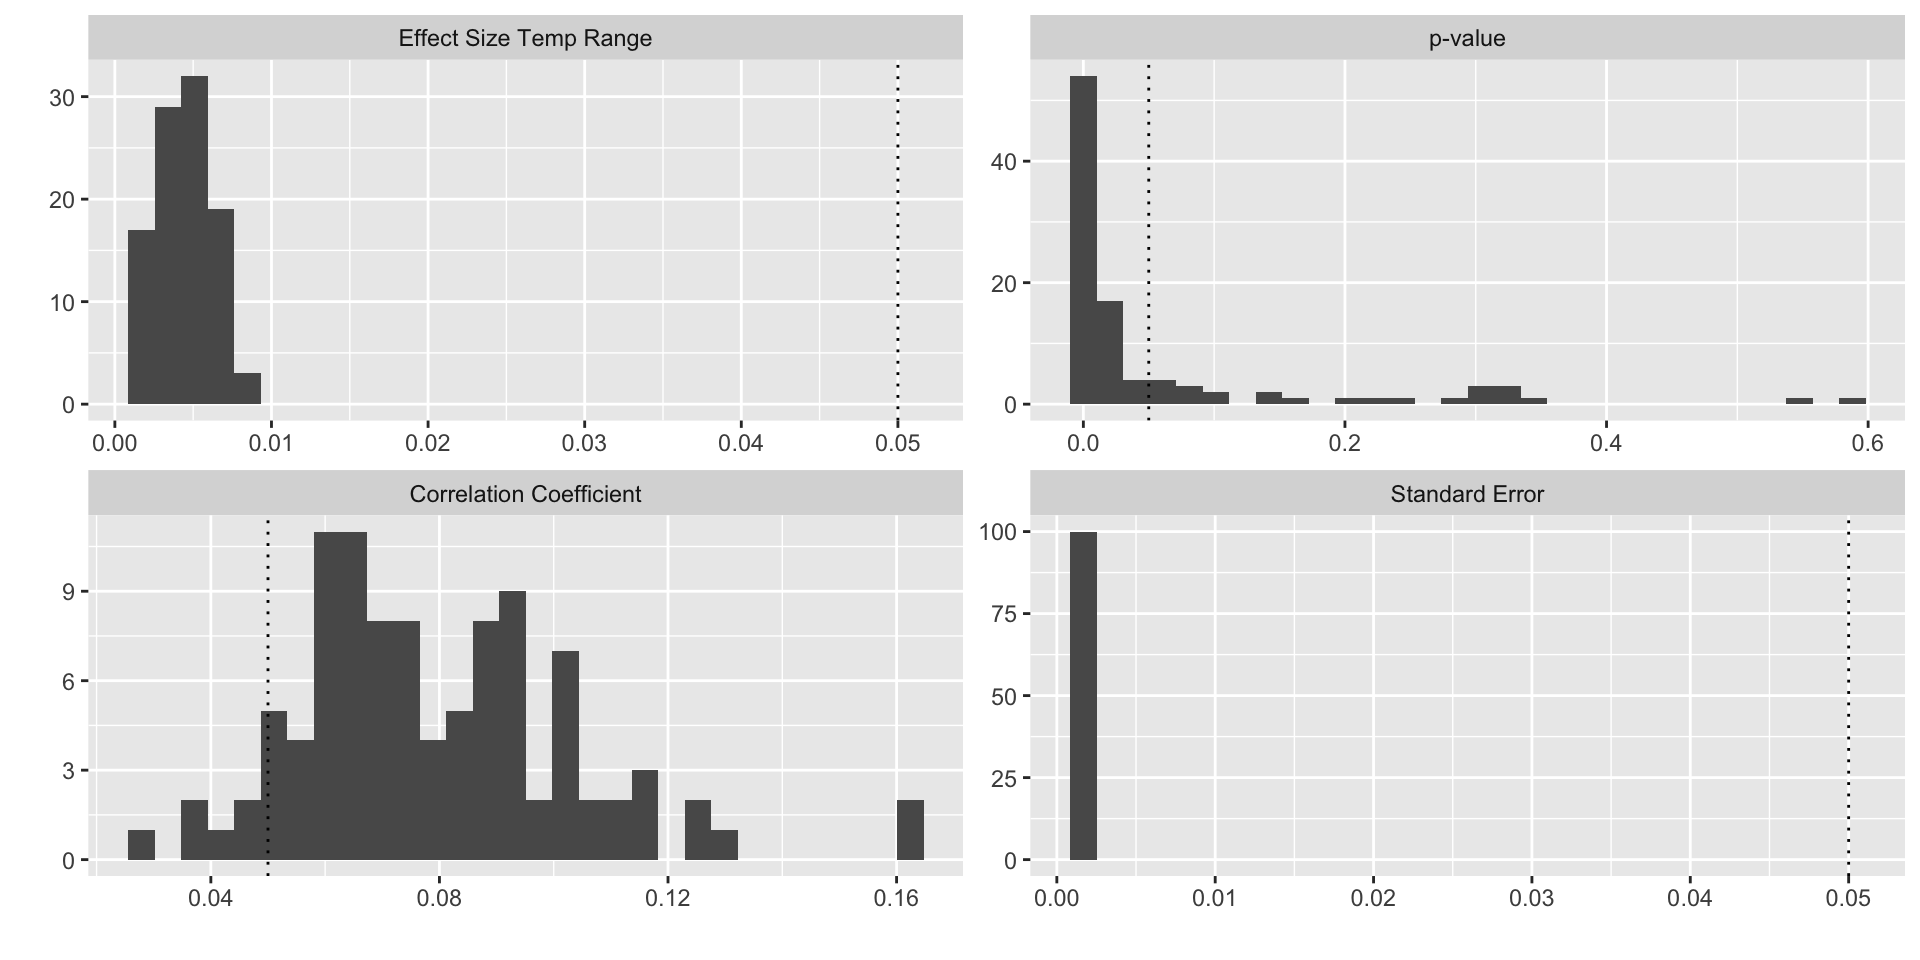
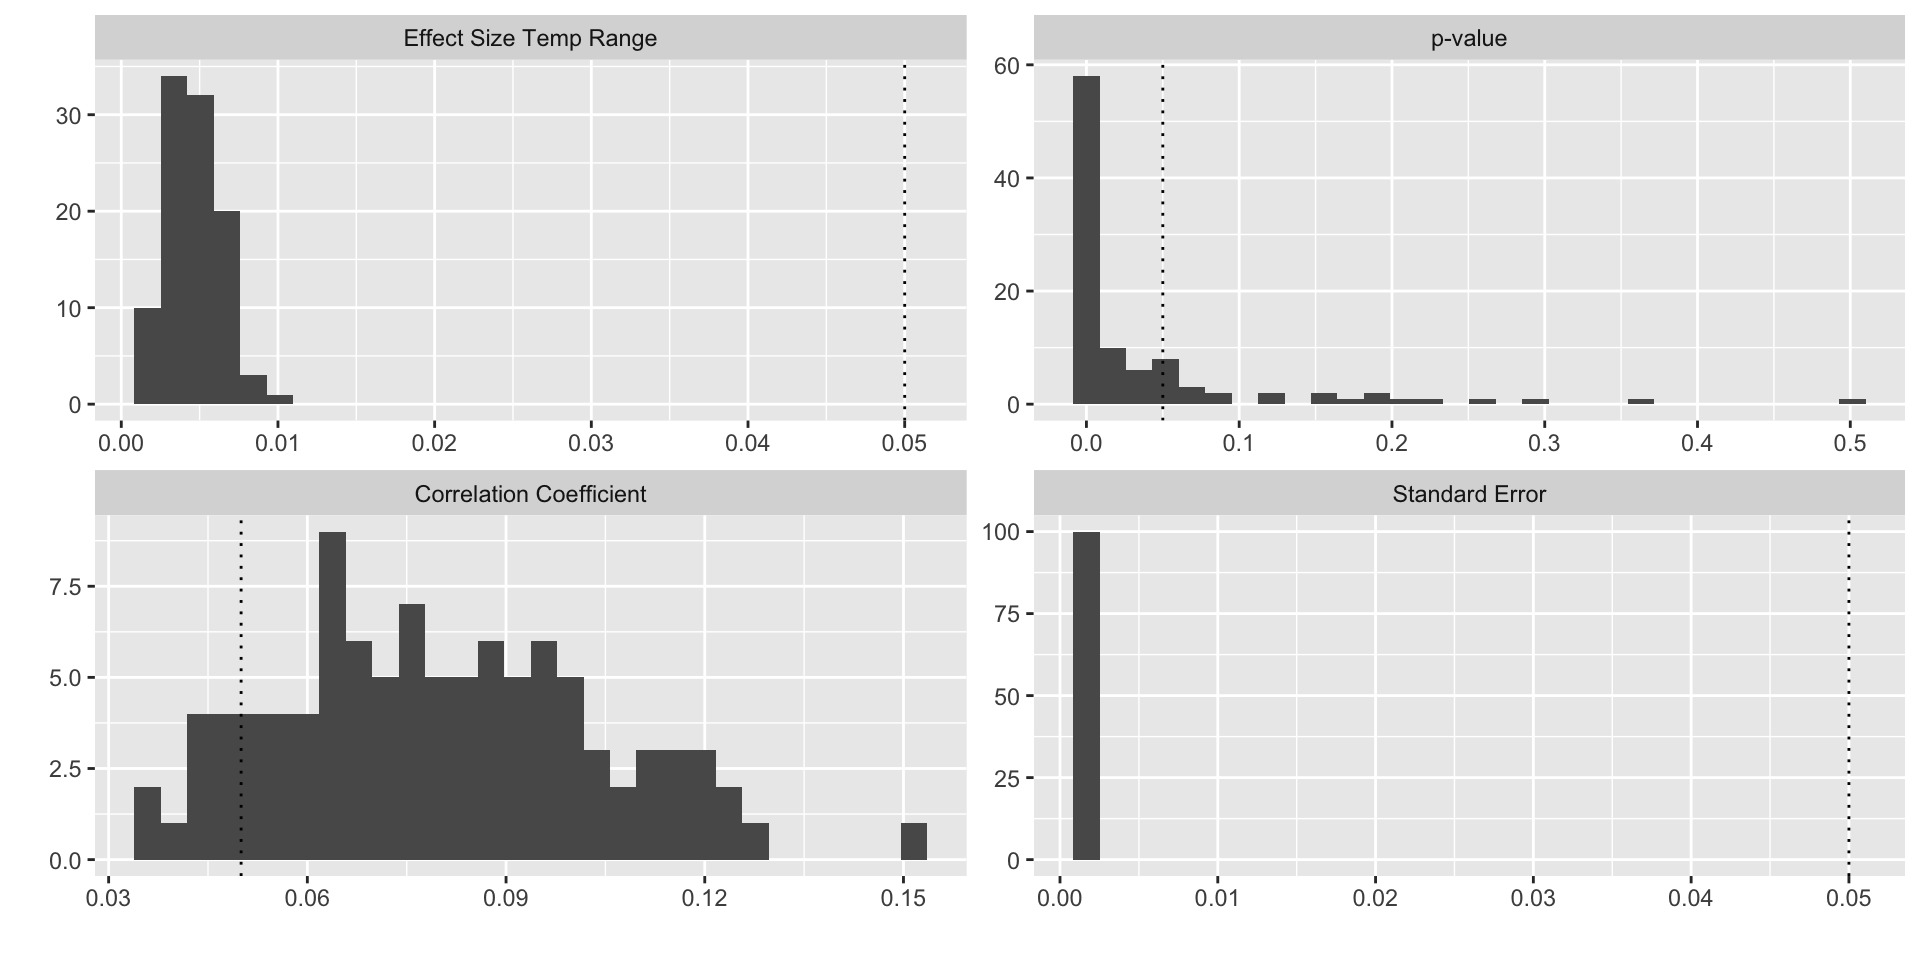
new subsampling and comm ecology pages

diff --git a/docs/subsampling.html b/docs/subsampling.html
@@ -301,7 +301,7 @@ $(document).ready(function () {
       <a href="SAR.html">Island Biogeography</a>
     </li>
     <li>
-      <a href="readings-module3.html">Community Ecology</a>
+      <a href="thiefant.html">Community Ecology</a>
     </li>
     <li>
       <a href="readings-module4.html">Non-ants</a>
@@ -344,8 +344,8 @@ $(document).ready(function () {
 
 <div id="subsampling" class="section level1">
 <h1>Subsampling</h1>
-<p>When analyzing data at large spatial scales, significant results of correlations between your response varible and predictor variable need to be better validated aside from usual metrics such as correlation coefficients. While cross-validation methods exist to validate the predictive power of a statistical analyses, such as a regression, sometimes the question that we need to ask is whether or not the pattern or correlation that is observed from the analysis is really there.</p>
-<p>Take for example a study where we run a model assessing the effects of temperature range on average body size for each assemblage. Our model shows a significant effect and a decent correlation coefficient, however there is a possibility that our results are a product of certain species influencing the data because they are more abundant or widespread. Now the question becomes whether our model is simply just capturing the variation that is contributed by only several abundant species. How do we test this?</p>
+<p>When analyzing data at large spatial scales, significant results of correlations between your response variable and predictor variable need to be better validated aside from usual metrics such as correlation coefficients. While cross-validation methods exist to validate the predictive power of a statistical analysis, such as a regression, sometimes the question that we need to ask is whether or not the pattern or correlation that is observed from the analysis is really there.</p>
+<p>Take for example a study where we run a model assessing the effects of temperature range on the average assemblage body size of beetles. Our model shows a significant effect and a decent correlation coefficient, however there is a possibility that our results are a product of certain species influencing the data because they are more abundant or widespread. Now the question becomes whether our model is simply just capturing the variation that is contributed by only several abundant species. How do we test this?</p>
 <p>Random sampling is an efficient approach to solving this issue. By randomly sampling a number of species (usually the minimum number of species found in a assemblage) from each assemblage (without replacement, meaning the same species isn’t sampled twice) we pull a less biased species roster as such a less biased value of body size.</p>
 <p>Here I’ll show how to code a simple program in R to run subsampling.</p>
 </div>
@@ -417,11 +417,13 @@ df_shp</code></pre>
 df_shp &lt;- df_shp %&gt;% filter(!SR&lt;5)
 
 ggplot() +
+  geom_sf(data = df_shp_master, alpha = 0.7) +
   geom_sf(data = df_shp, aes(fill = geo_avg, color = geo_avg)) +
   scale_fill_viridis_c()+
   scale_color_viridis_c()+
   labs(fill = &quot;Body Size&quot;, color = &quot;Body Size&quot;) +
-  theme(panel.background = element_rect(fill = &quot;black&quot;, colour = NA))</code></pre>
+  theme(panel.background = element_rect(fill = &quot;black&quot;, colour = NA),
+        panel.grid = element_blank())</code></pre>
 <p><img src="subsampling_files/figure-html/unnamed-chunk-3-1.png" width="960" style="display: block; margin: auto;" /></p>
 <p>Now let’s a build a model where we assess geo_avg (our variable for body size) as a function of ATR. We also need a model to account for spatial autocorrelation. We will use generalized least squares (GLS) regression as it permits analysis of data given the assumption that there is a high level or correlation between our residuals (a typical sign of spatial autocorrelation). Finally the model should also account for the species richness of each assemblage because more species may influence the average body size of an assemblage.To do this we need to grab coordinates for each assemblage, which we can do by getting the centroids of each hexbin:</p>
 <pre class="r"><code>#Get centroid coordinates
@@ -444,6 +446,115 @@ head(model_df)</code></pre>
 ## 5   13 1.096853 22 46.19601 -149.96528 67.06155
 ## 6   22 1.128458 19 38.76278 -141.02016 61.56315</code></pre>
 <p>Now we have our dataset for our GLS model. Now we need to modify the gls() function to accept a spatial autocorrelation structure that accounts for the curvature of the earth. We can do this using modified code from stackoverflow:</p>
+<pre class="r"><code>#setup haversine model
+#### corHaversine - spatial correlation with haversine distance
+
+# Calculates the geodesic distance between two points specified by radian latitude/longitude using Haversine formula.
+# output in km
+haversine &lt;- function(x0, x1, y0, y1) {
+  a &lt;- sin( (y1 - y0)/2 )^2 + cos(y0) * cos(y1) * sin( (x1 - x0)/2 )^2
+  v &lt;- 2 * asin( min(1, sqrt(a) ) )
+  6371 * v
+}
+
+# function to compute geodesic haversine distance given two-column matrix of longitude/latitude
+# input is assumed in form decimal degrees if radians = F
+# note fields::rdist.earth is more efficient
+haversineDist &lt;- function(xy, radians = F) {
+  if (ncol(xy) &gt; 2) stop(&quot;Input must have two columns (longitude and latitude)&quot;)
+  if (radians == F) xy &lt;- xy * pi/180
+  hMat &lt;- matrix(NA, ncol = nrow(xy), nrow = nrow(xy))
+  for (i in 1:nrow(xy) ) {
+    for (j in i:nrow(xy) ) {
+      hMat[j,i] &lt;- haversine(xy[i,1], xy[j,1], xy[i,2], xy[j,2]) 
+    }
+  }
+  as.dist(hMat)
+}
+
+## for most methods, machinery from corSpatial will work without modification
+Initialize.corHaversine &lt;- nlme:::Initialize.corSpatial
+recalc.corHaversine &lt;- nlme:::recalc.corSpatial
+Variogram.corHaversine &lt;- nlme:::Variogram.corSpatial
+corFactor.corHaversine &lt;- nlme:::corFactor.corSpatial
+corMatrix.corHaversine &lt;- nlme:::corMatrix.corSpatial
+coef.corHaversine &lt;- nlme:::coef.corSpatial
+&quot;coef&lt;-.corHaversine&quot; &lt;- nlme:::&quot;coef&lt;-.corSpatial&quot;
+
+## Constructor for the corHaversine class
+corHaversine &lt;- function(value = numeric(0), form = ~ 1, mimic = &quot;corSpher&quot;, nugget = FALSE, fixed = FALSE) {
+  spClass &lt;- &quot;corHaversine&quot;
+  attr(value, &quot;formula&quot;) &lt;- form
+  attr(value, &quot;nugget&quot;) &lt;- nugget
+  attr(value, &quot;fixed&quot;) &lt;- fixed
+  attr(value, &quot;function&quot;) &lt;- mimic
+  class(value) &lt;- c(spClass, &quot;corStruct&quot;)
+  value
+}   # end corHaversine class
+environment(corHaversine) &lt;- asNamespace(&quot;nlme&quot;)
+
+Dim.corHaversine &lt;- function(object, groups, ...) {
+  if (missing(groups)) return(attr(object, &quot;Dim&quot;))
+  val &lt;- Dim.corStruct(object, groups)
+  val[[&quot;start&quot;]] &lt;- c(0, cumsum(val[[&quot;len&quot;]] * (val[[&quot;len&quot;]] - 1)/2)[-val[[&quot;M&quot;]]])
+  ## will use third component of Dim list for spClass
+  names(val)[3] &lt;- &quot;spClass&quot;
+  val[[3]] &lt;- match(attr(object, &quot;function&quot;), c(&quot;corSpher&quot;, &quot;corExp&quot;, &quot;corGaus&quot;, &quot;corLin&quot;, &quot;corRatio&quot;), 0)
+  val
+}
+environment(Dim.corHaversine) &lt;- asNamespace(&quot;nlme&quot;)
+
+## getCovariate method for corHaversine class
+getCovariate.corHaversine &lt;- function(object, form = formula(object), data) {
+  if (is.null(covar &lt;- attr(object, &quot;covariate&quot;))) {          # if object lacks covariate attribute
+    if (missing(data)) {                                    # if object lacks data
+      stop(&quot;need data to calculate covariate&quot;)
+    }
+    covForm &lt;- getCovariateFormula(form)
+    if (length(all.vars(covForm)) &gt; 0) {                    # if covariate present
+      if (attr(terms(covForm), &quot;intercept&quot;) == 1) {       # if formula includes intercept
+        covForm &lt;- eval(parse(text = paste(&quot;~&quot;, deparse(covForm[[2]]),&quot;-1&quot;,sep=&quot;&quot;)))    # remove intercept
+      }
+      # can only take covariates with correct names
+      if (length(all.vars(covForm)) &gt; 2) stop(&quot;corHaversine can only take two covariates, &#39;lon&#39; and &#39;lat&#39;&quot;)
+      if ( !all(all.vars(covForm) %in% c(&quot;lon&quot;, &quot;lat&quot;)) ) stop(&quot;covariates must be named &#39;lon&#39; and &#39;lat&#39;&quot;)
+      covar &lt;- as.data.frame(unclass(model.matrix(covForm, model.frame(covForm, data, drop.unused.levels = TRUE) ) ) )
+      covar &lt;- covar[,order(colnames(covar), decreasing = T)] # order as lon ... lat
+    }
+    else {
+      covar &lt;- NULL
+    }
+    
+    if (!is.null(getGroupsFormula(form))) {                 # if groups in formula extract covar by groups
+      grps &lt;- getGroups(object, data = data)
+      if (is.null(covar)) {
+        covar &lt;- lapply(split(grps, grps), function(x) as.vector(dist(1:length(x) ) ) )     # filler?
+      } 
+      else {
+        giveDist &lt;- function(el) {
+          el &lt;- as.matrix(el)
+          if (nrow(el) &gt; 1) as.vector(haversineDist(el))                       
+          else numeric(0)
+        }
+        covar &lt;- lapply(split(covar, grps), giveDist )
+      }
+      covar &lt;- covar[sapply(covar, length) &gt; 0]  # no 1-obs groups
+    } 
+    else {                                  # if no groups in formula extract distance
+      if (is.null(covar)) {
+        covar &lt;- as.vector(dist(1:nrow(data) ) )
+      } 
+      else {
+        covar &lt;- as.vector(haversineDist(as.matrix(covar) ) )
+      }
+    }
+    if (any(unlist(covar) == 0)) {          # check that no distances are zero
+      stop(&quot;cannot have zero distances in \&quot;corHaversine\&quot;&quot;)
+    }
+  }
+  covar
+}   # end method getCovariate
+environment(getCovariate.corHaversine) &lt;- asNamespace(&quot;nlme&quot;)</code></pre>
 <p>Now that we have modified the code we can run a GLS model:</p>
 <pre class="r"><code>t_range1 &lt;- gls(log(geo_avg) ~ ATR, weights=varFixed(~1/SR),
                 correlation = corHaversine(form=~lon+lat, mimic=&quot;corSpher&quot;), data = model_df)
@@ -511,12 +622,13 @@ species_roster&lt;-final_cell_list %&gt;%
 <p>The subsampling routine is very simple:</p>
 <pre class="r"><code>#ok let&#39;s run through the sampling routine
 species_roster1&lt;-subset(species_roster, cell == 1) #I get the species roster for cell 1
-samples&lt;-sample(1:nrow(species_roster1), 5, replace = F) #I then sample 5 random rows (species) w/o replacement from cell 209
-species_roster1&lt;-species_roster1[samples,] # I then grab the randomly sampled rows from the species roster of cell 209
+samples&lt;-sample(1:nrow(species_roster1), 5, replace = F) #I then sample 5 random rows (species) w/o replacement from cell 1
+species_roster1&lt;-species_roster1[samples,] # I then grab the randomly sampled rows from the species roster of cell 1
 EnvStats::geoMean(species_roster1$mean) #then I calculate the average body size of those randomly sampled species</code></pre>
 <pre><code>## [1] 1.161719</code></pre>
 <p>We just need to repeat the above for every cell and do that 100 times with this code:</p>
-<pre class="r"><code>fillthis&lt;-data.frame(cell = rep(unique(species_roster$cell),100), geo_mean = rep(rep(NA, length(unique(species_roster$cell))),100))
+<pre class="r"><code>set.seed(121212)
+fillthis&lt;-data.frame(cell = rep(unique(species_roster$cell),100), geo_mean = rep(rep(NA, length(unique(species_roster$cell))),100))
 
 for(i in 1:nrow(fillthis)){
   species_roster1&lt;-subset(species_roster, cell == fillthis$cell[i])
@@ -526,12 +638,12 @@ for(i in 1:nrow(fillthis)){
 }
 head(fillthis)</code></pre>
 <pre><code>##   cell  geo_mean
-## 1    1 0.8999480
-## 2   10 0.7918654
-## 3  100 1.1222745
-## 4  101 0.5788188
-## 5  102 0.7878423
-## 6  109 1.1596468</code></pre>
+## 1    1 1.0093369
+## 2   10 1.1691026
+## 3  100 0.9052897
+## 4  101 0.8620742
+## 5  102 0.7608040
+## 6  109 0.6915264</code></pre>
 <p>‘Fillthis’ is now a dataframe with all our subsampling data. Essentially the total number of cells subsampled for 100 times each. Now we need to run the GLS for every iteration of subsampled hexbins:</p>
 <pre class="r"><code>#run gls model for every run
 fillthis$marker&lt;-rep(1:100, each = length(unique(species_roster$cell)))
@@ -562,12 +674,12 @@ for (i in 1:nrow(model_output)) {
 
 head(model_output)</code></pre>
 <pre><code>##   marker effect_sz_atr std_err_atr    p_val_atr         r2
-## 1      1   0.004176530 0.001602987 9.616125e-03 0.06681016
-## 2      2   0.002174543 0.001440772 1.322398e-01 0.06462952
-## 3      3   0.006410263 0.001561473 5.166047e-05 0.07619491
-## 4      4   0.001665516 0.001636960 3.097330e-01 0.05336088
-## 5      5   0.002695254 0.001679730 1.096021e-01 0.06487816
-## 6      6   0.004169120 0.001635849 1.129603e-02 0.07941607</code></pre>
+## 1      1   0.002186344 0.001519873 1.512964e-01 0.07277665
+## 2      2   0.004261957 0.001607867 8.443891e-03 0.07380673
+## 3      3   0.004303247 0.001616429 8.166967e-03 0.05565122
+## 4      4   0.003159783 0.001727070 6.827250e-02 0.04910885
+## 5      5   0.007205955 0.001585183 7.846360e-06 0.06993944
+## 6      6   0.007573730 0.001633876 5.248710e-06 0.11508336</code></pre>
 <p>Now let’s graph our model results:</p>
 <pre class="r"><code>model_output_graph&lt;-pivot_longer(model_output, 
                                  cols = c(&quot;effect_sz_atr&quot;, &quot;std_err_atr&quot;, &quot;p_val_atr&quot;,
@@ -590,12 +702,14 @@ ggplot(model_output_graph) +
 
 df_shape2&lt;-df_shp %&gt;% left_join(.,averages, by = &quot;cell&quot;)
 ggplot() +
+  geom_sf(data = df_shp_master, alpha = 0.7) +
   geom_sf(data = df_shape2, aes(fill = avg_bod_sz, color = avg_bod_sz)) +
   scale_fill_viridis_c()+
   scale_color_viridis_c()+
   labs(fill = &quot;Simulated\nBody\nSize&quot;, color = &quot;Simulated\nBody\nSize&quot;) +
-  theme(panel.background = element_rect(fill = &quot;black&quot;, colour = NA))</code></pre>
-<p><img src="subsampling_files/figure-html/unnamed-chunk-13-1.png" width="960" style="display: block; margin: auto;" /></p>
+  theme(panel.background = element_rect(fill = &quot;black&quot;, colour = NA),
+        panel.grid = element_blank())</code></pre>
+<p><img src="subsampling_files/figure-html/unnamed-chunk-13-1.png" width="960" style="display: block; margin: auto;" /> We see that the subsampling visually shows the same patterns of body size.</p>
 </div>
 
 

diff --git a/docs/thiefant.html b/docs/thiefant.html
@@ -9,10 +9,9 @@
 <meta http-equiv="X-UA-Compatible" content="IE=EDGE" />
 
 
-<meta name="author" content="Leo_Ohyama" />
 
 
-<title>Research</title>
+<title>thiefant.utf8</title>
 
 <script src="site_libs/jquery-1.11.3/jquery.min.js"></script>
 <meta name="viewport" content="width=device-width, initial-scale=1" />
@@ -339,31 +338,25 @@ $(document).ready(function () {
 
 
 
-<h1 class="title toc-ignore">Research</h1>
-<h4 class="author">Leo_Ohyama</h4>
-<h4 class="date">2/21/2021</h4>
 
 </div>
 
 
-<div id="r-markdown" class="section level2">
-<h2>R Markdown</h2>
-<p>This is an R Markdown document. Markdown is a simple formatting syntax for authoring HTML, PDF, and MS Word documents. For more details on using R Markdown see <a href="http://rmarkdown.rstudio.com" class="uri">http://rmarkdown.rstudio.com</a>.</p>
-<p>When you click the <strong>Knit</strong> button a document will be generated that includes both content as well as the output of any embedded R code chunks within the document. You can embed an R code chunk like this:</p>
-<pre class="r"><code>summary(cars)</code></pre>
-<pre><code>##      speed           dist       
-##  Min.   : 4.0   Min.   :  2.00  
-##  1st Qu.:12.0   1st Qu.: 26.00  
-##  Median :15.0   Median : 36.00  
-##  Mean   :15.4   Mean   : 42.98  
-##  3rd Qu.:19.0   3rd Qu.: 56.00  
-##  Max.   :25.0   Max.   :120.00</code></pre>
+<div class="figure" style="text-align: center">
+<img src="Images/P1080563(1).jpg" alt="Thief ants of the genus Solenopsis (Photo: Philipp Hönle)" width="75%" />
+<p class="caption">
+Thief ants of the genus Solenopsis (Photo: Philipp Hönle)
+</p>
 </div>
-<div id="including-plots" class="section level2">
-<h2>Including Plots</h2>
-<p>You can also embed plots, for example:</p>
-<p><img src="research_files/figure-html/pressure-1.png" width="672" /></p>
-<p>Note that the <code>echo = FALSE</code> parameter was added to the code chunk to prevent printing of the R code that generated the plot.</p>
+<div id="community-ecology" class="section level1">
+<h1>Community Ecology</h1>
+<p>While empirical studies done at large spatial scales are informative, I’m a firm believer that such studies are only as good as the local-scale studies that help support them. As such, the observations and experiments that are done at the local-scale are extremely important. To better understand ants at the local scale, I spent roughly 3 years conducting field experiments and surveys throughout my masters degree.</p>
+<p>The focus of that research was on the genus <em>Solenopsis</em>, and more specifically the thief ant group. Thief ants are tiny ants (~1-2mm long) that steal the brood or eggs of other ants for consumption. They are often subterranean, living almost the entirety of their lives belowground. Due to their mostly subterranean natural history, not much is known of their biology yet they are one the most abundant ants in the world. I assessed their diversity and distributions in high pine habitats of Florida and also ran experimental manipulations to reduce their abundance in the field in order to assess their potential impact as subterranean predators.</p>
+<p>Through my research I identified that <a href="https://myrmecologicalnews.org/cms/index.php?option=com_content&amp;view=category&amp;id=1518&amp;Itemid=421">strong soil environmental variables can heavily influence thief ant diversity</a> and also found that <a href="https://esajournals.onlinelibrary.wiley.com/doi/abs/10.1002/ecy.3084">thief ants have an extremely oversized effect on the surrounding ant community</a> as over a year of thief ant suprresion in the field let to exploding numbers in populations of other co-occuring ants.</p>
+</div>
+<div id="non-native-ant-research" class="section level1">
+<h1>Non-native ant research</h1>
+<p>I have also delved into understanding the impacts of non-native ants on native ant communities. Non-native</p>
 </div>
 
 

diff --git a/docs/CV.html b/docs/CV.html
@@ -302,7 +302,7 @@ $(document).ready(function () {
       <a href="SAR.html">Island Biogeography</a>
     </li>
     <li>
-      <a href="readings-module3.html">Community Ecology</a>
+      <a href="thiefant.html">Community Ecology</a>
     </li>
     <li>
       <a href="readings-module4.html">Non-ants</a>

diff --git a/docs/NYCflights.html b/docs/NYCflights.html
@@ -302,7 +302,7 @@ $(document).ready(function () {
       <a href="SAR.html">Island Biogeography</a>
     </li>
     <li>
-      <a href="readings-module3.html">Community Ecology</a>
+      <a href="thiefant.html">Community Ecology</a>
     </li>
     <li>
       <a href="readings-module4.html">Non-ants</a>

diff --git a/docs/SAR.html b/docs/SAR.html
@@ -301,7 +301,7 @@ $(document).ready(function () {
       <a href="SAR.html">Island Biogeography</a>
     </li>
     <li>
-      <a href="readings-module3.html">Community Ecology</a>
+      <a href="thiefant.html">Community Ecology</a>
     </li>
     <li>
       <a href="readings-module4.html">Non-ants</a>

diff --git a/docs/index.html b/docs/index.html
@@ -301,7 +301,7 @@ $(document).ready(function () {
       <a href="SAR.html">Island Biogeography</a>
     </li>
     <li>
-      <a href="readings-module3.html">Community Ecology</a>
+      <a href="thiefant.html">Community Ecology</a>
     </li>
     <li>
       <a href="readings-module4.html">Non-ants</a>

diff --git a/docs/macroecology.html b/docs/macroecology.html
@@ -301,7 +301,7 @@ $(document).ready(function () {
       <a href="SAR.html">Island Biogeography</a>
     </li>
     <li>
-      <a href="readings-module3.html">Community Ecology</a>
+      <a href="thiefant.html">Community Ecology</a>
     </li>
     <li>
       <a href="readings-module4.html">Non-ants</a>

diff --git a/docs/maps.html b/docs/maps.html
@@ -302,7 +302,7 @@ $(document).ready(function () {
       <a href="SAR.html">Island Biogeography</a>
     </li>
     <li>
-      <a href="readings-module3.html">Community Ecology</a>
+      <a href="thiefant.html">Community Ecology</a>
     </li>
     <li>
       <a href="readings-module4.html">Non-ants</a>
